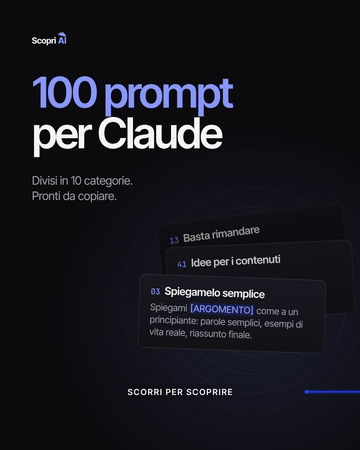
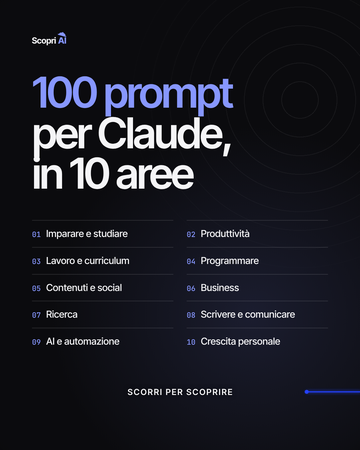
Prompt 100 Claude: post finale (copertina D, caption, PDF, testi alternativi)
Claude-Session: https://claude.ai/code/session_01U8sdWSbDFymW7GER9YSrJ4

diff --git a/carousels/2026-10-23-prompt-100-claude/index.html b/carousels/2026-10-23-prompt-100-claude/index.html
@@ -60,11 +60,9 @@
 <!--COVER-START-->
 <div class="slot"><section class="slide mode-dark">
   <div class="layer bg"></div>
-  <div class="layer rings" style="--rx:760px;--ry:900px"></div>
-  <div class=.glow" style="left:700px;top:900px"></div>
-  <div class="pg card fan back" style="left:480px;top:640px;transform:rotate(-7deg);filter:brightness(.6)"><div class="pt"><b>13</b>Basta rimandare</div><p>Rimando <span class="ph">[COMPITO]</span> da giorni. Dividilo in passi piccolissimi e fammi iniziare entro 30 minuti.</p></div><div class="pg card fan back" style="left:500px;top:730px;transform:rotate(-2.5deg);filter:brightness(.8)"><div class="pt"><b>41</b>Idee per i contenuti</div><p>Dammi 30 idee di post su <span class="ph">[ARGOMENTO]</span>: prima quelle più utili, curiose e da condividere.</p></div><div class="pg card fan qa-text" id="front" style="left:416px;top:830px;transform:rotate(2deg)"><div class="pt"><b>03</b>Spiegamelo semplice</div><p>Spiegami <span class="ph">[ARGOMENTO]</span> come a un principiante: parole semplici, esempi di vita reale, riassunto finale.</p></div>
-  <h2 class="txt display qa-text" style="left:96px;top:216px;width:888px" data-lines="2"><span class="em">100 prompt</span><br>per Claude</h2>
-  <p class="txt lead qa-text" style="left:96px;top:520px;width:600px" data-lines="2">Divisi in 10 categorie.<br>Pronti da copiare.</p>
+  <div class="layer rings" style="--rx:900px;--ry:300px"></div>
+  <h2 class="txt display qa-text" style="left:96px;top:216px;width:888px" data-lines="3"><span class="em">100 prompt</span><br>per Claude,<br>in 10 aree</h2>
+  <div class="cats qa-text"><div><b>01</b>Imparare e studiare</div><div><b>02</b>Produttività</div><div><b>03</b>Lavoro e curriculum</div><div><b>04</b>Programmare</div><div><b>05</b>Contenuti e social</div><div><b>06</b>Business</div><div><b>07</b>Ricerca</div><div><b>08</b>Scrivere e comunicare</div><div><b>09</b>AI e automazione</div><div><b>10</b>Crescita personale</div></div>
 </section></div>
 <!--COVER-END-->
 <div class="slot"><section class="slide mode-light">

diff --git a/carousels/2026-10-23-prompt-100-claude/genera.py b/carousels/2026-10-23-prompt-100-claude/genera.py
@@ -171,7 +171,7 @@ window.CAROUSEL = {{
 </html>
 '''
 
-body = '<!--COVER-START-->\n' + COVER_A + '\n<!--COVER-END-->\n' + '\n'.join(slides) + '\n' + CLOSE
+body = '<!--COVER-START-->\n' + COVER_D + '\n<!--COVER-END-->\n' + '\n'.join(slides) + '\n' + CLOSE
 (here / 'index.html').write_text(HEAD + body + tail(12))
 (here / 'copertine.html').write_text(
     '<!--VARIANT a copertina principale (slide 1)-->\n' + COVER_A + '\n'

diff --git a/carousels/2026-10-23-prompt-100-claude/copy.md b/carousels/2026-10-23-prompt-100-claude/copy.md
@@ -1,15 +1,14 @@
 # 100 prompt per Claude
 
-_Copy in italiano · formato: statico · 12 slide (copertina + 10 categorie + chiusura) · bozza del 21/10/2026, uscita venerdì 23/10 alle 15:30_
+_Copy in italiano · formato: statico · 12 slide (copertina + 10 categorie + chiusura) · APPROVATO il 21/10/2026 con modifiche, uscita venerdì 23/10 alle 15:30_
 
 **In una frase:** per chi usa (o vuole usare) Claude senza sapere cosa chiedere: 100 richieste pronte, divise in 10 aree di vita e lavoro; l'azione è salvare il post e chiedere il PDF. **Struttura:** lista (copy guide §6), una categoria per slide, griglia 2 × 5 come nello spunto, nel nostro stile.
 
 Spunto: post «100 Claude prompts» di un creator (regola 7 del 21/10/2026: contenuto ripreso e riscritto in italiano con parole nostre, niente grafica, nome o slogan suoi). Le categorie 01–04 sono adattate dal suo post, 05–10 dagli screenshot del proprietario con modifiche (02: «Bilancio della settimana» e «Abitudini» sostituiti da «Menu e spesa» e «Bilancio di casa», per non ripetere la 10).
 
-### 01 — Copertina (scuro)
-- **Titolo:** «100 prompt» / per Claude (accento: «100 prompt»)
-- **Sottotitolo:** Divisi in 10 categorie. Pronti da copiare.
-- **Visual:** tre schede di prompt a ventaglio (n. 13, 41, 3), luce blu dietro. In basso «SCORRI PER SCOPRIRE» e la linea blu corta.
+### 01 — Copertina (scuro) · scelta del proprietario: la D
+- **Titolo:** «100 prompt» / per Claude, / in 10 aree (accento: «100 prompt»)
+- **Visual:** l'elenco delle 10 categorie su due colonne (01 Imparare e studiare … 10 Crescita personale). In basso «SCORRI PER SCOPRIRE» e la linea blu corta.
 
 ### 02 — 01 Imparare e studiare (chiaro)
 - **Titolo:** 01 Imparare e studiare
@@ -167,33 +166,28 @@ Spunto: post «100 Claude prompts» di un creator (regola 7 del 21/10/2026: cont
 - **Pulsante:** (fumetto) Commenta «100» e ti mando il PDF
 - **Riga 🔔:** Seguici per non perdere i prossimi prompt
 
-### Caption
+### Caption (finale, sul modello di quella dello spunto)
 ```text
-100 prompt per Claude, l'intelligenza artificiale di Anthropic: per studiare, lavorare, scrivere e decidere meglio. 👇
+Commenta «100» e ti mando tutti i 100 prompt per Claude in PDF.
 
-🧠 Un prompt è la richiesta che scrivi all'AI. Più è precisa, più la risposta ti serve: questi dicono a Claude cosa fare, per chi e in che forma.
+🧠 Prompt pronti per studio, lavoro, scrittura, ricerca, produttività, social, idee, decisioni e programmazione.
 
-Come usarli:
-✍ Cambia le parti tra [PARENTESI QUADRE] con i tuoi dati.
-💬 Incollali in Claude. Funzionano anche con ChatGPT e Gemini.
-💡 Aggiungi in fondo: «Se ti manca un'informazione, chiedimela prima di rispondere». Le risposte migliorano subito.
-🔒 Prima di incollare documenti, togli nome, indirizzo, codice fiscale e IBAN.
+✍ Copiali, cambia le parti tra [PARENTESI] e aggiungi in fondo: «Se ti manca un'informazione, chiedimela prima di rispondere». Così non riparti da zero ogni volta.
 
-⚠ L'AI aiuta, ma può sbagliare: controlla date, cifre e scadenze prima di usarle.
-
-📄 Commenta «100» e ti mando il PDF con tutti i prompt, pronti da copiare.
-📌 Salvalo per quando ti serve.
-Quale categoria ti serve di più? 👇
+📌 Salvalo: ci tornerai.
+Quale categoria provi per prima?
 🔔 Seguici per non perdere i prossimi prompt.
+
+[prompt per Claude, 100 prompt Claude, Claude AI, migliori prompt, prompt AI, intelligenza artificiale, produttività con l'AI, Claude per programmare, strumenti AI, prompt in italiano]
 
 #claude #promptAI #intelligenzaartificiale #anthropic #produttività
 ```
 
 **Copertine alternative** (`exports/copertine-confronto.jpg`):
-- A (slide 1): «100 prompt per Claude» + schede a ventaglio
+- A: «100 prompt per Claude» + schede a ventaglio (era la slide 1 della bozza)
 - B: numero «100» gigante + «prompt per Claude» + lente 3D di vetro e cromo
 - C: «Smetti di chiedere a caso» + scheda chat con il prompt 01
-- D: «100 prompt per Claude, in 10 aree» + l'elenco delle 10 categorie
+- D (**slide 1**, scelta del proprietario): «100 prompt per Claude, in 10 aree» + l'elenco delle 10 categorie
 
 **Hook alternativi:** Smetti di chiedere a caso · Claude fa di più se sai chiedere · 100 cose da chiedere a Claude
 

diff --git a/carousels/2026-10-23-prompt-100-claude/note.md b/carousels/2026-10-23-prompt-100-claude/note.md
@@ -1,4 +1,4 @@
-# Note · 100 prompt per Claude (bozza 21/10/2026)
+# Note · 100 prompt per Claude (finale 21/10/2026, uscita venerdì 23/10 alle 15:30)
 
 ## Come è cambiato il lavoro oggi
 1. Prima richiesta: 10 prompt lunghi per Claude (cartella `2026-10-23-prompt-claude-da-salvare`). Fermata a metà su richiesta del regista.
@@ -47,5 +47,30 @@ Nessun prompt di salute: la categoria 10 del proprietario non ne ha.
 5. **Prompt corti.** Per stare nella griglia i prompt hanno 15–20 parole, non le 100 della skill. In caption e nel PDF c'è il trucco «Se ti manca un'informazione, chiedimela prima di rispondere».
 6. **Riga «Commenta «100» per avere il PDF»** in fondo a ogni categoria: si può togliere se pesa troppo.
 
-## Musica e orari
-Da fare nel modo «finale».
+## Modifiche del proprietario (approvazione del 21/10/2026)
+- La copertina D (elenco delle 10 categorie) è diventata la slide 1; la A (schede a ventaglio) resta tra le alternative (`exports/copertina-a.png`). `copertina-d.png` è uguale alla slide 1.
+- Caption rifatta sul modello di quella dello spunto, con parole nostre: prima riga «Commenta «100» e ti mando tutti i 100 prompt per Claude in PDF.», usi, come copiarli con il trucco, «📌 Salvalo: ci tornerai.», domanda, 🔔 Seguici, riga di parole chiave tra [parentesi quadre], 5 hashtag. Il controllo della caption non blocca la riga di parole chiave.
+- Nessun commento fissato: i prompt completi sono nelle slide e nel PDF.
+
+## Controllo finale (`brand/controllo-finale.md` e `build-guide.md` §8)
+- Copertina: niente etichetta di rubrica, niente contatore, «SCORRI PER SCOPRIRE» centrato sopra i pallini, linea blu corta che prosegue nella slide 2. Il titolo ha 7 parole; con l'elenco delle categorie supera le 12: scelta del proprietario.
+- La slide 2 (01 Imparare e studiare) mostra subito i prompt promessi dalla copertina.
+- Nessun contatore, nessun @scopri__ai in basso, logo a campana in alto a sinistra, niente giallo né arancione.
+- Chiusura: logo grande, un solo pulsante («Commenta «100» e ti mando il PDF»), riga 🔔. In caption l'invito principale per il controllo è «📌 Salvalo» (il «Commenta «100»» è ammesso dal 21/10/2026 e non conta come secondo invito).
+- Controllo automatico delle slide superato (12 slide e 4 copertine); striscia senza salti di linea alle giunture.
+- Deviazioni: testo delle schede a 21 px (meno dei 28 px della skill) per la griglia chiesta; numeri e segnaposto in blu sulle stesse schede (più di 2 accenti per slide).
+
+## Musica consigliata
+Umore del venerdì (prompt): lo-fi tranquillo, solo strumentale. Già usati o consigliati (`brand/musica-usata.md` e note degli ultimi post): Daft Punk, Justice, M83, Henry Mancini, Lalo Schifrin, Moderat, Jon Hopkins, Ratatat, Chemical Brothers, Kavinsky, Gesaffelstein, Boards of Canada, Aphex Twin, Röyksopp. Nessuno di questi qui.
+1. **Nujabes – Aruarian Dance** (strumentale, lo-fi hip hop classico, ritmo morbido che lascia leggere)
+2. **Idealism – Controlla** (strumentale, lo-fi calmo e caldo)
+3. **Kupla – Owls of the Night** (strumentale, lo-fi lento e pulito)
+Controlla che ci siano nella libreria di Instagram; se tra quelle di tendenza (↗) c'è un lo-fi strumentale, ha la precedenza. Quando scegli, scrivilo in `brand/musica-usata.md`.
+
+## Musica usata
+Da scrivere quando il proprietario sceglie.
+
+## Orari
+- **Venerdì 23/10 alle 15:30** (calendario).
+- Nella prima ora: rispondere ai commenti. A chi scrive «100» va mandato il PDF `pubblicazione/100-prompt-claude.pdf` in privato (a mano o con un risponditore automatico). Condividere il post nelle Storie, magari con un sondaggio («Quale categoria ti serve?»).
+- Testi alternativi: Impostazioni avanzate → Accessibilità → Scrivi testo alternativo, uno per slide (`pubblicazione/02-testi-alternativi.txt`).

diff --git a/carousels/2026-10-23-prompt-100-claude/fonti.md b/carousels/2026-10-23-prompt-100-claude/fonti.md
@@ -1,0 +1,6 @@
+# Fonti · 100 prompt per Claude
+
+Post di prompt: nessuna fonte in caption (regola 2).
+
+- **Spunto** (regola 7, 21/10/2026): post «100 Claude prompts» di thesanskaarsingh su Instagram (https://www.instagram.com/p/Deix7H8jrqT/), visto negli screenshot del proprietario il 21/10/2026. Abbiamo preso la struttura (10 categorie × 10 prompt) e gli argomenti; i testi sono riscritti in italiano con parole nostre, in parte cambiati (categoria 02) e provati. Niente nome, grafica, foto o slogan suoi sulle slide.
+- **Immagini:** tutte fatte da noi col codice (schede di interfaccia) e la lente 3D del nostro renderer (`assets/generated/magnifier.png`, solo nella copertina B). Nessuna foto o video di terzi.
